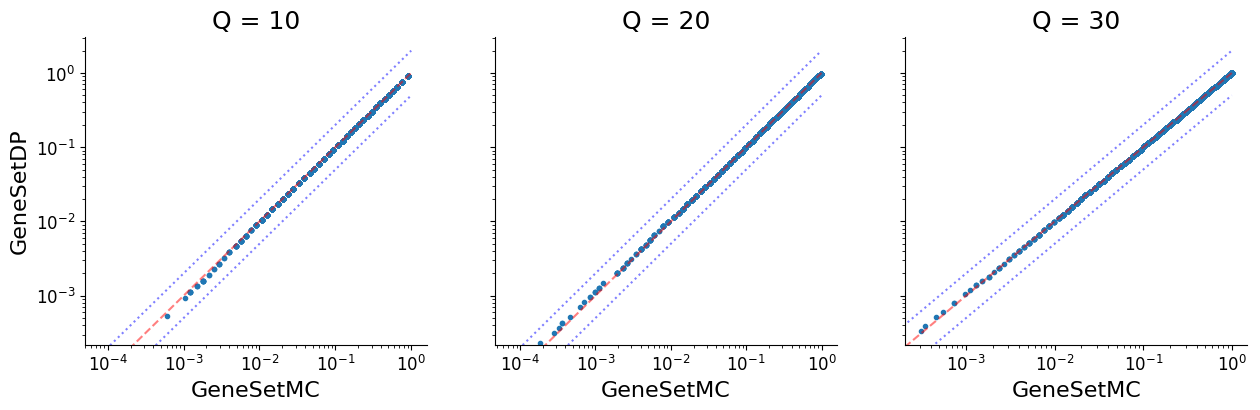
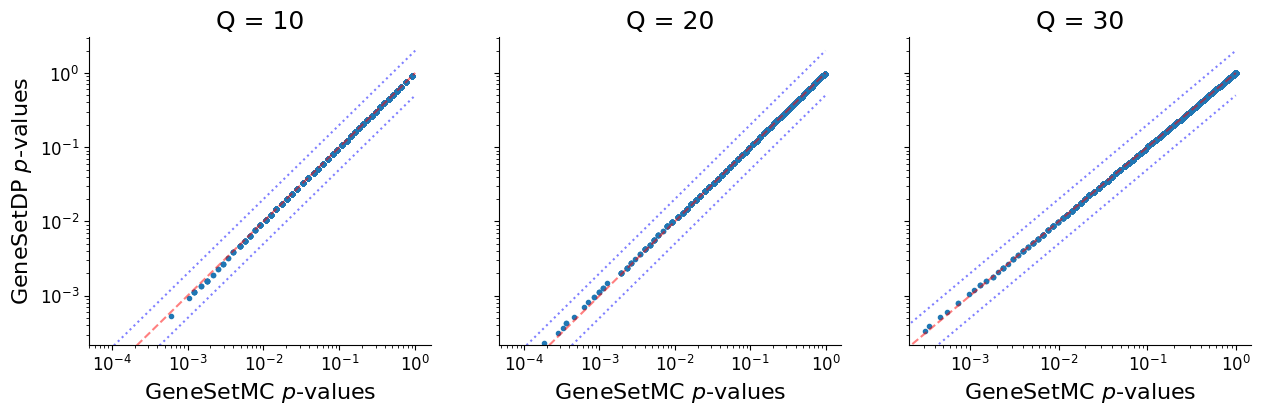
change figure label

diff --git a/exp/figure_scatter.py b/exp/figure_scatter.py
@@ -36,10 +36,10 @@ ax1.set_title('Q = 10', fontsize=18)
 ax2.set_title('Q = 20', fontsize=18)
 ax3.set_title('Q = 30', fontsize=18)
 
-ax1.set_ylabel('GeneSetDP', fontsize = 16)
-ax1.set_xlabel('GeneSetMC', fontsize = 16)
-ax2.set_xlabel('GeneSetMC', fontsize = 16)
-ax3.set_xlabel('GeneSetMC', fontsize = 16)
+ax1.set_ylabel('GeneSetDP $p$-values', fontsize = 16)
+ax1.set_xlabel('GeneSetMC $p$-values', fontsize = 16)
+ax2.set_xlabel('GeneSetMC $p$-values', fontsize = 16)
+ax3.set_xlabel('GeneSetMC $p$-values', fontsize = 16)
 
 for ax in [ax1,ax2,ax3]:
     ax.xaxis.set_tick_params(labelsize=12)
